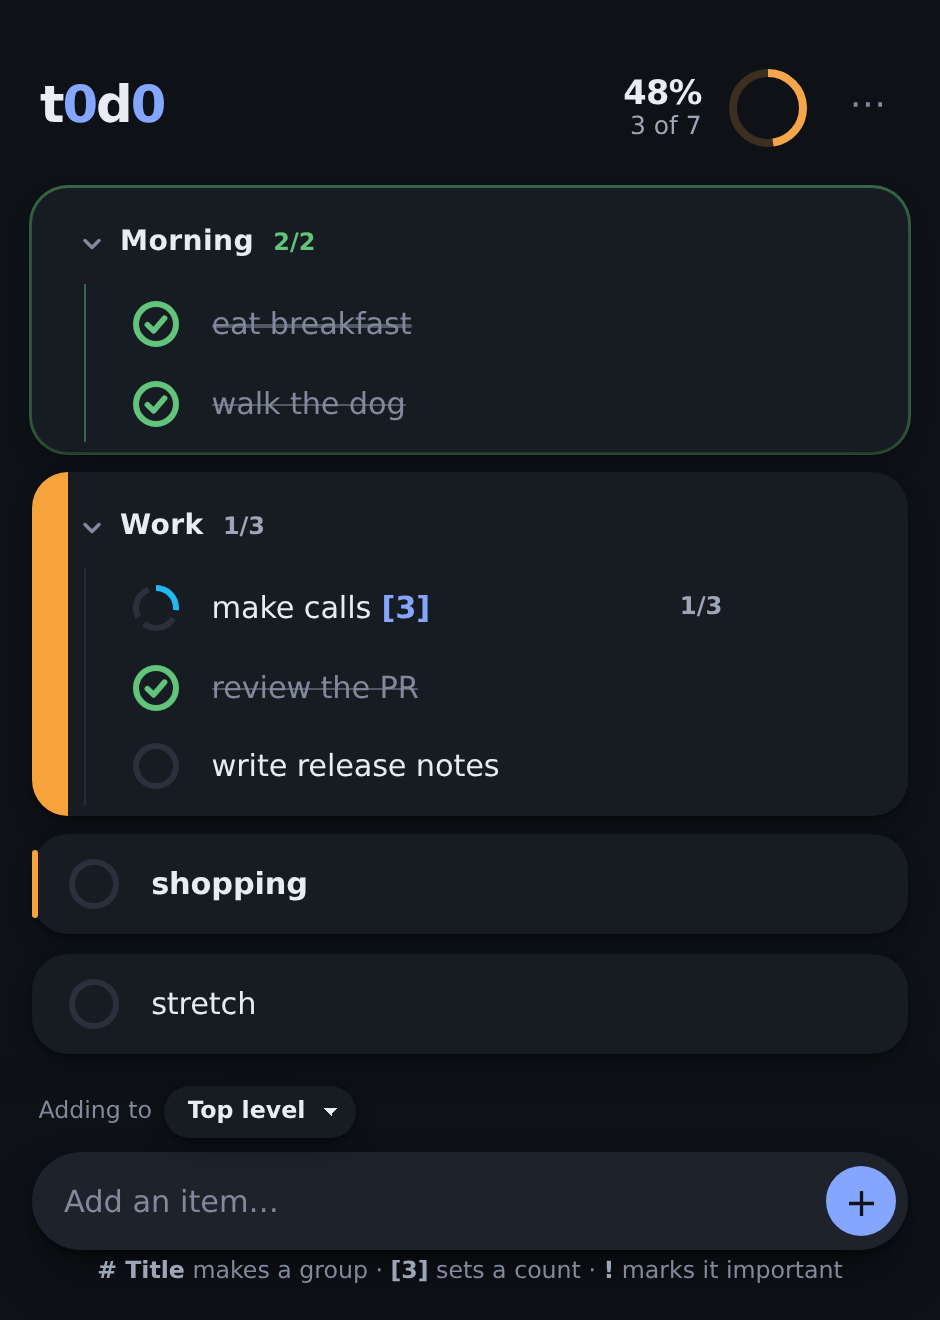
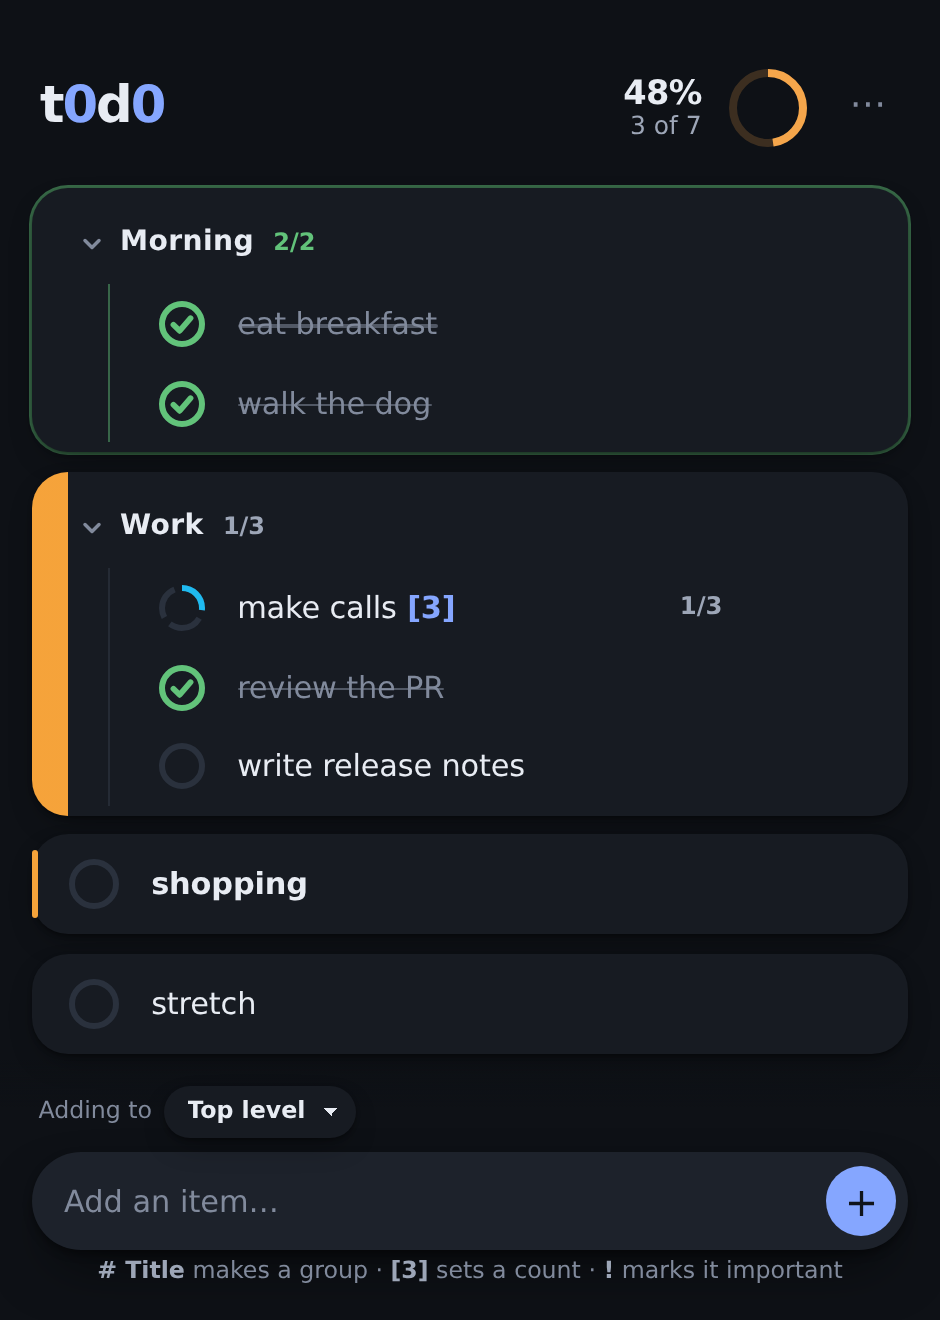
fix: line up the group's drag handle, and give a nested one room

Changed region(s): [[0.1234, 0.4348, 0.5553, 0.6212], [0.1234, 0.2174, 0.4628, 0.3417]]

diff --git a/src/styles/app.css b/src/styles/app.css
@@ -126,7 +126,15 @@
 
 /* ---------------------------------------------------------------- groups */
 
+/*
+  Positioned so the header's grip measures from the card rather than from
+  `.ghead`, which sits inside the card's padding — that put a group's handle
+  8.8px closer to its card than a row's, which reads as a different distance
+  because it is one. Nothing else in the header needs a containing block: the
+  controls all carry their own.
+*/
 .group {
+  position: relative;
   background: var(--card);
   border-radius: var(--r-card);
   box-shadow: var(--shadow-card), var(--edge);
@@ -138,7 +146,6 @@
 }
 
 .ghead {
-  position: relative;
   display: flex;
   align-items: center;
   gap: 0.6rem;
@@ -532,8 +539,22 @@ body.dragging-row {
     margin-right: 0;
   }
 
+  /*
+    A nested row's grip is outboard of the row, which inside a group means
+    *inboard* of the card — the one strip of the card that is already spoken
+    for, by the group's own left edge and its importance mark. So the rail moves
+    right far enough to open a gutter the grip sits in, clear of the mark on one
+    side and the rail on the other.
+
+    Only on these devices: where the grip stays in the flow it takes real space
+    in the row and needs no gutter, so a phone keeps the tighter indent.
+  */
+  .items {
+    margin-left: 1.85rem;
+  }
+
   .items > .task > .grip {
-    left: -1.3rem;
+    left: -1.6rem;
   }
 
   .task:hover .kill,

diff --git a/CLAUDE.md b/CLAUDE.md
@@ -267,6 +267,19 @@ above / inside / below, which is what stops a step undoing itself on the next fr
 you widen one region, narrow the other by the same amount, and re-check by measurement —
 this went wrong twice, in both directions, and neither was visible by eye.
 
+**A grip measures from the card it belongs to**, which is why `.group` is positioned and
+`.ghead` is not. The header sits inside the card's padding, so a grip anchored to it came
+out 8.8px closer to its card than a row's did — a difference small enough to look like
+nothing and read like a mistake. Nothing else in the header needs a containing block; the
+controls all carry their own.
+
+**A nested row's grip lives in a gutter, not the margin.** Outboard of the row means
+inboard of the card, where the group's own left edge and its importance strip already
+are — so on pointer devices `.items` is indented far enough to open a lane between the
+strip and the rail, and the grip sits in it. Only there: where the grip stays in the flow
+it takes real space in the row, and a phone keeps the tighter indent. Both numbers were
+set by measuring the three clearances, not by eye.
+
 Hit areas are `::after` overlays, so **where two overlap, the later one in the DOM wins**.
 That is why the grip's is asymmetric — a symmetric 44px box put the tick's overlay on top
 of the grip's own dots. Changing a row's controls means re-checking this with
